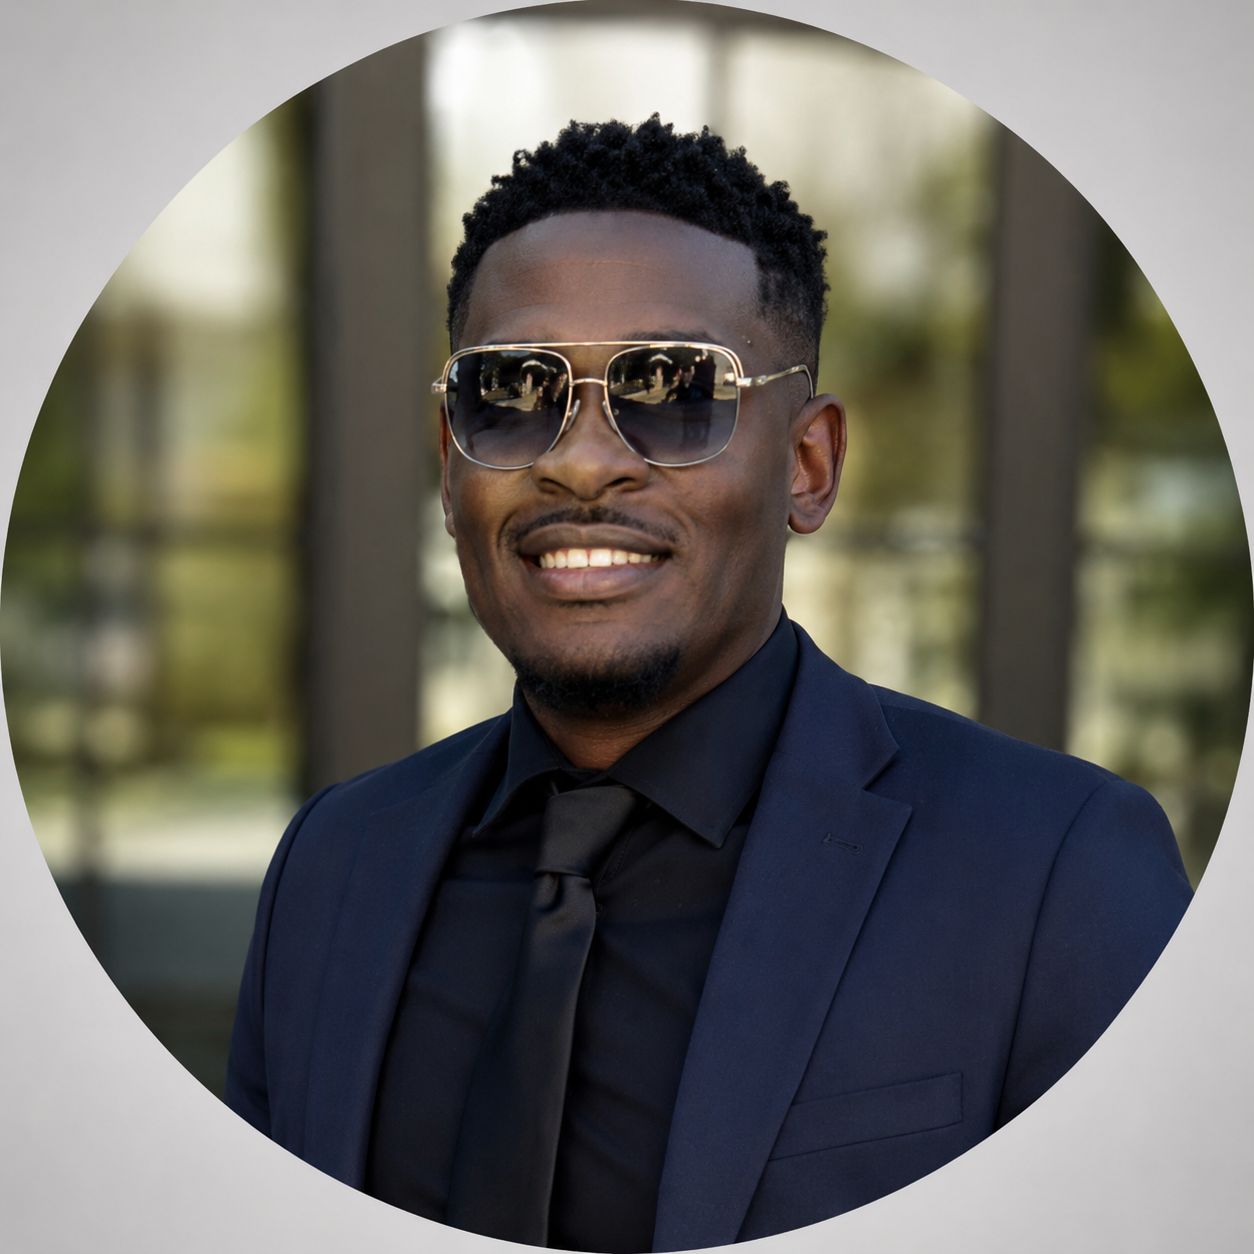
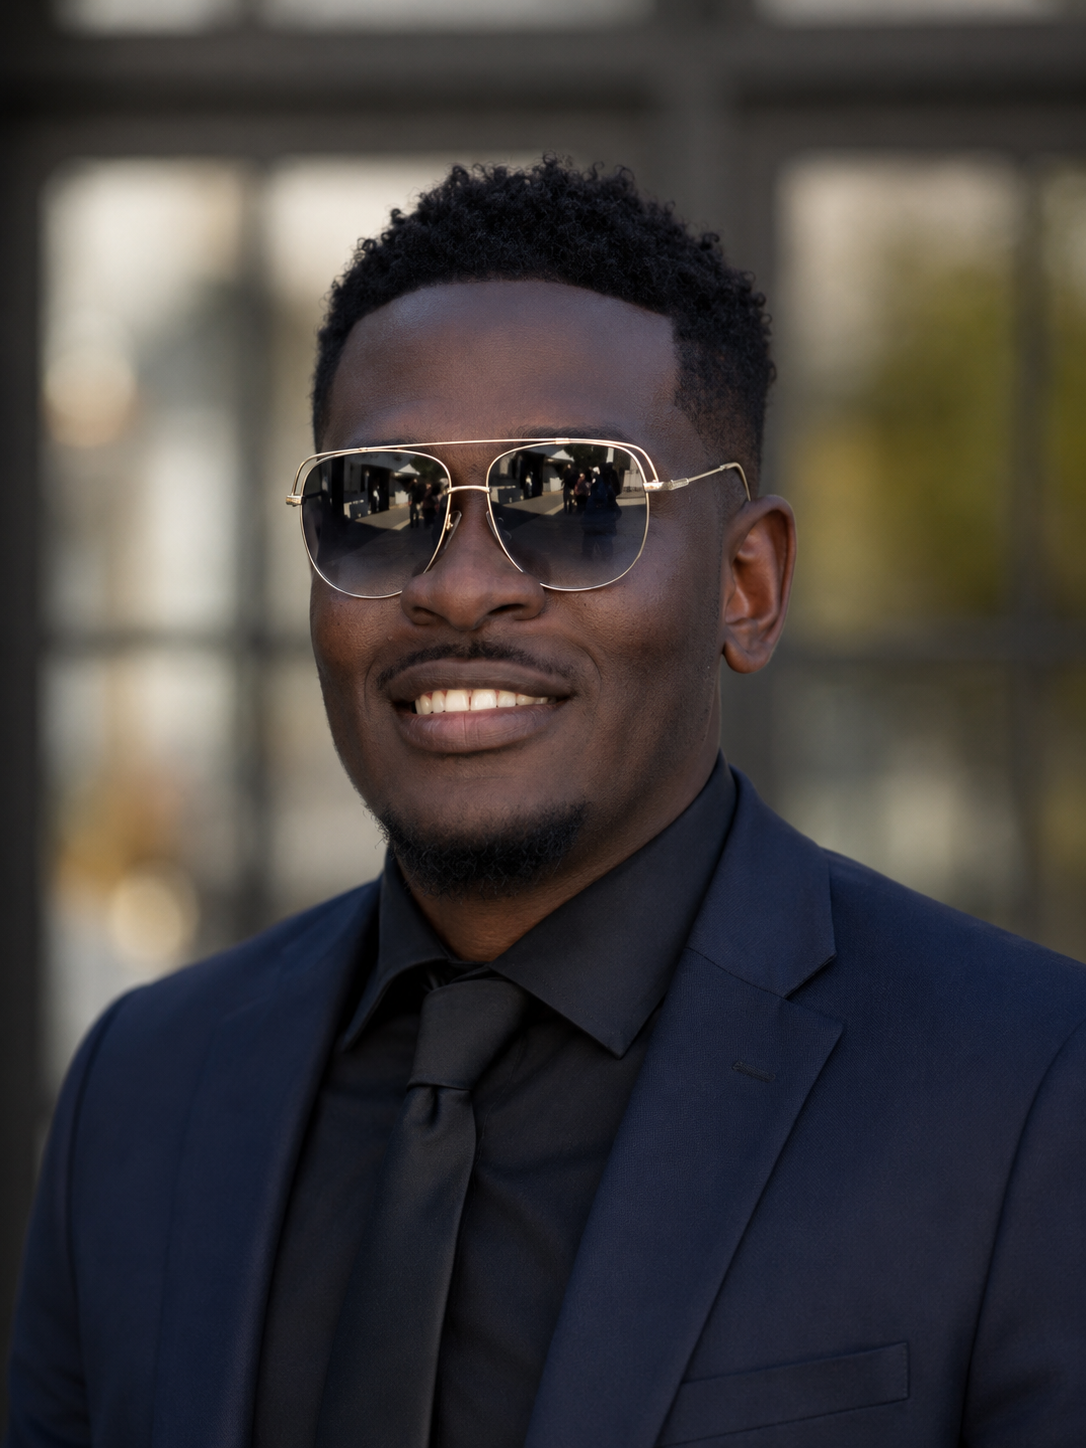
ready to launch

diff --git a/src/app/contact/page.tsx b/src/app/contact/page.tsx
@@ -8,6 +8,16 @@ export const metadata: Metadata = {
   title: "Contact",
   description:
     "Contact Kerone Creary for software developer opportunities focused on .NET, backend, full-stack, and workflow automation work.",
+  openGraph: {
+    title: "Contact Kerone Creary",
+    description:
+      "Reach out about .NET, backend, full-stack, and software developer roles focused on practical systems.",
+  },
+  twitter: {
+    title: "Contact Kerone Creary",
+    description:
+      "Reach out about .NET, backend, full-stack, and software developer roles focused on practical systems.",
+  },
 };
 
 const contactCards = [
@@ -59,7 +69,11 @@ export default function ContactPage() {
                   key={link.label}
                   href={link.href}
                   className="surface-card interactive-card group rounded-lg p-5"
-                  aria-label={`Open ${link.label}`}
+                  aria-label={
+                    link.label === "View Resume"
+                      ? "Open Kerone Creary resume"
+                      : `Open ${link.label}`
+                  }
                 >
                   <p className="text-xs font-bold uppercase text-[#9b6f20]">
                     {link.label}
@@ -67,19 +81,19 @@ export default function ContactPage() {
                   <p className="mt-3 text-lg font-semibold text-[#22211f]">
                     {link.label === "Email"
                       ? "Send an email"
-                      : link.label === "Resume"
+                      : link.label === "View Resume"
                         ? "View resume"
                         : `Visit ${link.label}`}
                   </p>
                   <p className="mt-3 text-sm leading-6 text-[#625f59]">
                     {link.label === "Email"
                       ? "Best for direct conversations about roles, projects, or next steps."
-                      : link.label === "Resume"
+                      : link.label === "View Resume"
                         ? "PDF resume ready for recruiter and hiring manager review."
                         : `Connect with Kerone on ${link.label}.`}
                   </p>
                   <span className="mt-5 inline-flex text-sm font-bold text-[#1f5c43] group-hover:text-[#143f2e]">
-                    Open {link.label}
+                    {link.label === "View Resume" ? "Open Resume" : `Open ${link.label}`}
                   </span>
                 </a>
               ))}

diff --git a/src/app/work/[slug]/page.tsx b/src/app/work/[slug]/page.tsx
@@ -1,4 +1,5 @@
 import Link from "next/link";
+import type { Metadata } from "next";
 import { notFound } from "next/navigation";
 import { CaseStudyLayout } from "@/components/CaseStudyLayout";
 import { Footer } from "@/components/Footer";
@@ -19,7 +20,9 @@ export function generateStaticParams() {
   }));
 }
 
-export async function generateMetadata({ params }: CaseStudyRouteProps) {
+export async function generateMetadata({
+  params,
+}: CaseStudyRouteProps): Promise<Metadata> {
   const { slug } = await params;
   const caseStudy = getCaseStudyBySlug(slug);
   const project = featuredProjects.find((item) => item.slug === slug);
@@ -28,6 +31,14 @@ export async function generateMetadata({ params }: CaseStudyRouteProps) {
     return {
       title: caseStudy.title,
       description: caseStudy.subtitle,
+      openGraph: {
+        title: `${caseStudy.title} | Kerone Creary`,
+        description: caseStudy.subtitle,
+      },
+      twitter: {
+        title: `${caseStudy.title} | Kerone Creary`,
+        description: caseStudy.subtitle,
+      },
     };
   }
 
@@ -35,6 +46,14 @@ export async function generateMetadata({ params }: CaseStudyRouteProps) {
     return {
       title: `${project.title} | Coming Soon`,
       description: project.problem,
+      openGraph: {
+        title: `${project.title} | Coming Soon`,
+        description: project.problem,
+      },
+      twitter: {
+        title: `${project.title} | Coming Soon`,
+        description: project.problem,
+      },
     };
   }
 
@@ -88,7 +107,8 @@ export default async function CaseStudyPage({ params }: CaseStudyRouteProps) {
                 </h1>
                 <p className="mt-5 text-lg leading-8 text-[#625f59]">
                   This case study is structured for a future phase. For now, the
-                  Work page includes a homepage-level project preview.
+                  Work page includes a clear project preview and coming-soon
+                  status.
                 </p>
               </div>
             </Reveal>

diff --git a/src/data/caseStudies.ts b/src/data/caseStudies.ts
@@ -46,7 +46,7 @@ export const caseStudies: CaseStudy[] = [
     type: "Professional Case Study",
     status: "Private Work / Recreated Mockups",
     summary:
-      "This project supported quality control for cropped collectible images by flagging images that may have orientation issues, failed crops, or other visual problems before final review.",
+      "This project supported quality control for cropped collectible images by flagging records that may have orientation issues, failed crops, or other visual problems before final review.",
     techStack: [
       ".NET",
       "OCR",
@@ -61,9 +61,9 @@ export const caseStudies: CaseStudy[] = [
     goal:
       "Create a workflow that could help prioritize manual review by surfacing images most likely to need attention.",
     role:
-      "Contributed to the design and development of an audit approach that combined image-processing techniques, OCR, feature matching, and machine-learning-assisted flagging to identify image crops that may require review.",
+      "Contributed to the design and development of an audit approach that combined image-processing techniques, OCR, feature matching, and machine-learning-assisted flagging to identify crops that may require review.",
     solution:
-      "The audit workflow analyzed cropped images using multiple checks instead of relying on a single method. OCR helped detect readable text and possible orientation issues. Feature matching helped compare expected visual structure. Image-processing and machine-learning-assisted checks helped flag suspicious crops that may require manual review.",
+      "The audit workflow analyzed cropped images with multiple checks instead of relying on a single method. OCR helped detect readable text and possible orientation issues. Feature matching helped compare expected visual structure. Image-processing and machine-learning-assisted checks helped flag suspicious crops for manual review.",
     architectureSteps: [
       "Image batch received",
       "Cropped images scanned",

diff --git a/src/app/work/page.tsx b/src/app/work/page.tsx
@@ -1,13 +1,24 @@
+import type { Metadata } from "next";
 import { Footer } from "@/components/Footer";
 import { Header } from "@/components/Header";
 import { ProjectCard } from "@/components/ProjectCard";
 import { Reveal } from "@/components/Reveal";
 import { featuredProjects } from "@/data/projects";
 
-export const metadata = {
+export const metadata: Metadata = {
   title: "Featured Work",
   description:
-    "Professional case studies, personal projects, and community-focused software work by Kerone Creary.",
+    "Case studies, personal projects, and community-focused software work by Kerone Creary.",
+  openGraph: {
+    title: "Featured Work | Kerone Creary",
+    description:
+      "Case studies, personal projects, and community-focused software work by Kerone Creary.",
+  },
+  twitter: {
+    title: "Featured Work | Kerone Creary",
+    description:
+      "Case studies, personal projects, and community-focused software work by Kerone Creary.",
+  },
 };
 
 export default function WorkPage() {
@@ -23,9 +34,9 @@ export default function WorkPage() {
                 Featured Work
               </h1>
               <p className="mt-5 max-w-3xl text-lg leading-8 text-[#625f59]">
-                A collection of professional case studies, personal projects, and
-                community-focused software work. Some projects are fully written
-                up now, while others are structured for future case studies.
+                A collection of case studies, personal projects, and
+                community-focused software work. Some projects are written up
+                now, while others are marked for future case studies.
               </p>
             </Reveal>
           </div>

diff --git a/src/app/about/page.tsx b/src/app/about/page.tsx
@@ -9,7 +9,17 @@ import { profile } from "@/data/profile";
 export const metadata: Metadata = {
   title: "About",
   description:
-    "Learn more about Kerone Creary, a software developer focused on .NET, SQL, and full-stack applications.",
+    "Learn more about Kerone Creary, a software developer focused on practical .NET, SQL, and full-stack application work.",
+  openGraph: {
+    title: "About Kerone Creary",
+    description:
+      "A grounded professional story shaped by software work, growth, faith, family, and community.",
+  },
+  twitter: {
+    title: "About Kerone Creary",
+    description:
+      "A grounded professional story shaped by software work, growth, faith, family, and community.",
+  },
 };
 
 const approachItems = [
@@ -42,7 +52,7 @@ export default function AboutPage() {
                 </p>
                 <p className="mt-6 max-w-3xl text-base leading-7 text-[#625f59]">
                   I&apos;m a software developer focused on building practical
-                  systems that help people and teams work better. My path has
+                  systems that make work clearer and more manageable. My path has
                   shaped how I approach work: stay grounded, keep learning, and
                   build with purpose.
                 </p>

diff --git a/src/data/projects.ts b/src/data/projects.ts
@@ -13,7 +13,7 @@ export const featuredProjects: FeaturedProject[] = [
     slug: "image-quality-audit-tool",
     title: "Image Quality Audit Tool",
     type: "Professional Case Study",
-    status: "Private / Recreated Mockups Planned",
+    status: "Private Work / Recreated Mockups",
     problem:
       "Used OCR, feature matching, image processing, and machine learning techniques to flag collectible image crops that needed flipping, rotation, or manual review.",
     tags: [
@@ -42,7 +42,7 @@ export const featuredProjects: FeaturedProject[] = [
     type: "Personal Productivity Tool",
     status: "Planned / In Progress",
     problem:
-      "A focused tool for organizing job applications, recruiter conversations, interview notes, statuses, and follow-ups.",
+      "A focused tool for organizing applications, recruiter conversations, interview notes, statuses, and follow-ups.",
     tags: ["Next.js", "TypeScript", "SQL", "Full-Stack"],
     hasCaseStudy: false,
   },

diff --git a/src/app/page.tsx b/src/app/page.tsx
@@ -13,9 +13,21 @@ import { ValuesSection } from "@/components/ValuesSection";
 import { WhatIBuildSection } from "@/components/WhatIBuildSection";
 
 export const metadata: Metadata = {
-  title: "Home",
+  title: {
+    absolute: "Kerone Creary | Software Developer",
+  },
   description:
     "Kerone Creary is a software developer focused on .NET, SQL, automation tools, and full-stack applications that help people and teams work better.",
+  openGraph: {
+    title: "Kerone Creary | Software Developer",
+    description:
+      "Software developer focused on .NET, SQL, automation tools, and full-stack applications that help people and teams work better.",
+  },
+  twitter: {
+    title: "Kerone Creary | Software Developer",
+    description:
+      "Software developer focused on .NET, SQL, automation tools, and full-stack applications that help people and teams work better.",
+  },
 };
 
 export default function Home() {

diff --git a/src/data/profile.ts b/src/data/profile.ts
@@ -15,13 +15,13 @@ export const profile = {
   groundingLine:
     "My faith in Jesus Christ keeps me grounded, and my commitment to family, growth, and service shapes how I approach my work.",
   contactCta:
-    "I'm open to software developer opportunities where I can contribute, keep growing, and help a strong team build useful systems.",
+    "I'm open to software developer opportunities where I can contribute to practical systems, keep growing, and support a strong team.",
 };
 
 export const profileAssets = {
   profileImage: {
     src: "/images/profile/kerone-profile.png",
-    alt: "Portrait of Kerone Creary",
+    alt: "Kerone Creary, software developer",
     isAvailable: true,
   },
   resume: {
@@ -57,7 +57,7 @@ export const profileLinks = {
     isPlaceholder: false,
   },
   resume: {
-    label: "Resume",
+    label: "View Resume",
     href: profileAssets.resume.href,
     isPlaceholder: false,
   },

diff --git a/src/components/ProjectCard.tsx b/src/components/ProjectCard.tsx
@@ -163,9 +163,9 @@ export function ProjectCard({ project, index }: ProjectCardProps) {
         ) : (
           <span
             className="mt-6 rounded-md border border-[#d6c9b6] bg-[#fbfaf7] px-4 py-2 text-center text-sm font-bold text-[#7a746a]"
-            aria-label={`${project.title} case study coming soon`}
+            aria-label={`${project.title} case study is coming soon`}
           >
-            Coming Soon
+            Case Study Coming Soon
           </span>
         )}
       </div>

diff --git a/src/components/ProfilePortrait.tsx b/src/components/ProfilePortrait.tsx
@@ -25,7 +25,7 @@ export function ProfilePortrait() {
             fill
             priority
             sizes="(min-width: 1024px) 28rem, 90vw"
-            className="object-cover object-[50%_35%]"
+            className="object-cover object-[50%_32%]"
           />
         ) : (
           <div className="absolute inset-0 flex flex-col items-center justify-center px-8">

diff --git a/src/app/layout.tsx b/src/app/layout.tsx
@@ -14,6 +14,7 @@ export const metadata: Metadata = {
       "Software developer focused on .NET, SQL, automation tools, and full-stack applications that help people and teams work better.",
     type: "website",
     siteName: "Kerone Creary Portfolio",
+    locale: "en_US",
   },
   twitter: {
     card: "summary",

diff --git a/src/components/Header.tsx b/src/components/Header.tsx
@@ -32,7 +32,7 @@ export function Header() {
           href={profileLinks.resume.href}
           className="button-secondary w-full border-[#1f5c43] text-[#1f5c43] md:w-auto md:justify-self-end"
         >
-          Resume
+          View Resume
         </a>
       </div>
     </header>
